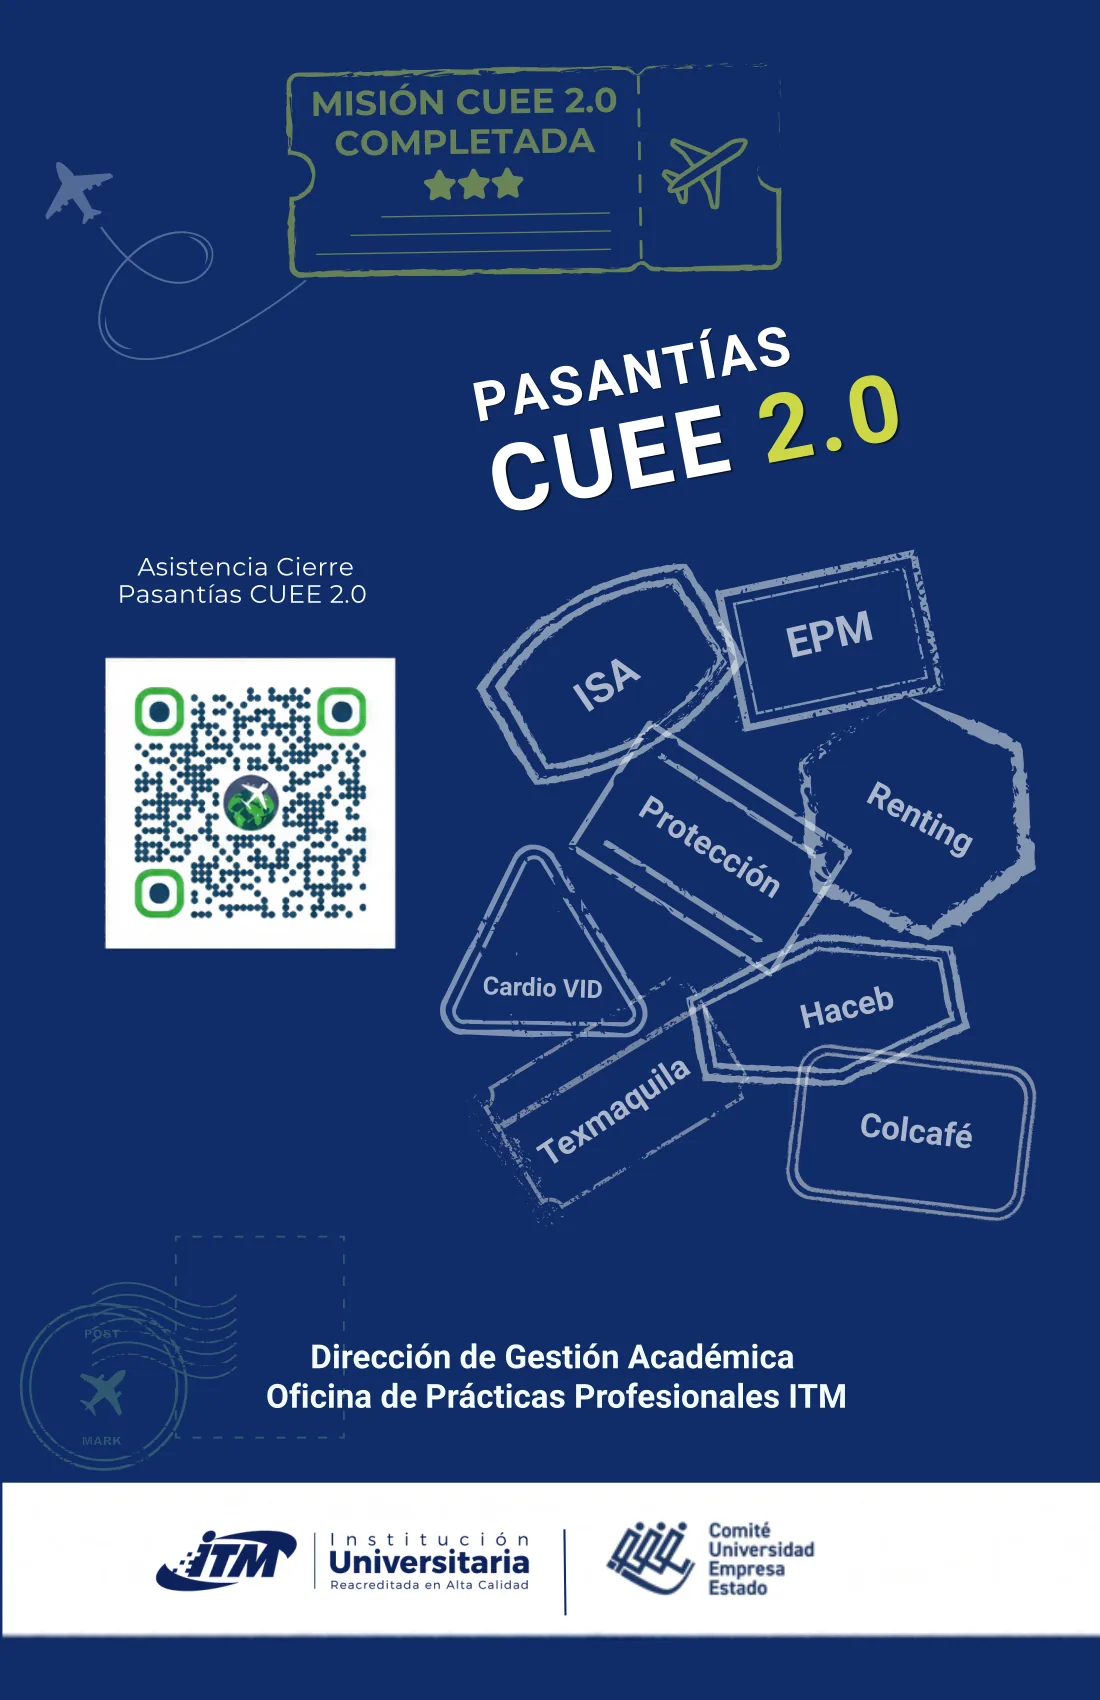
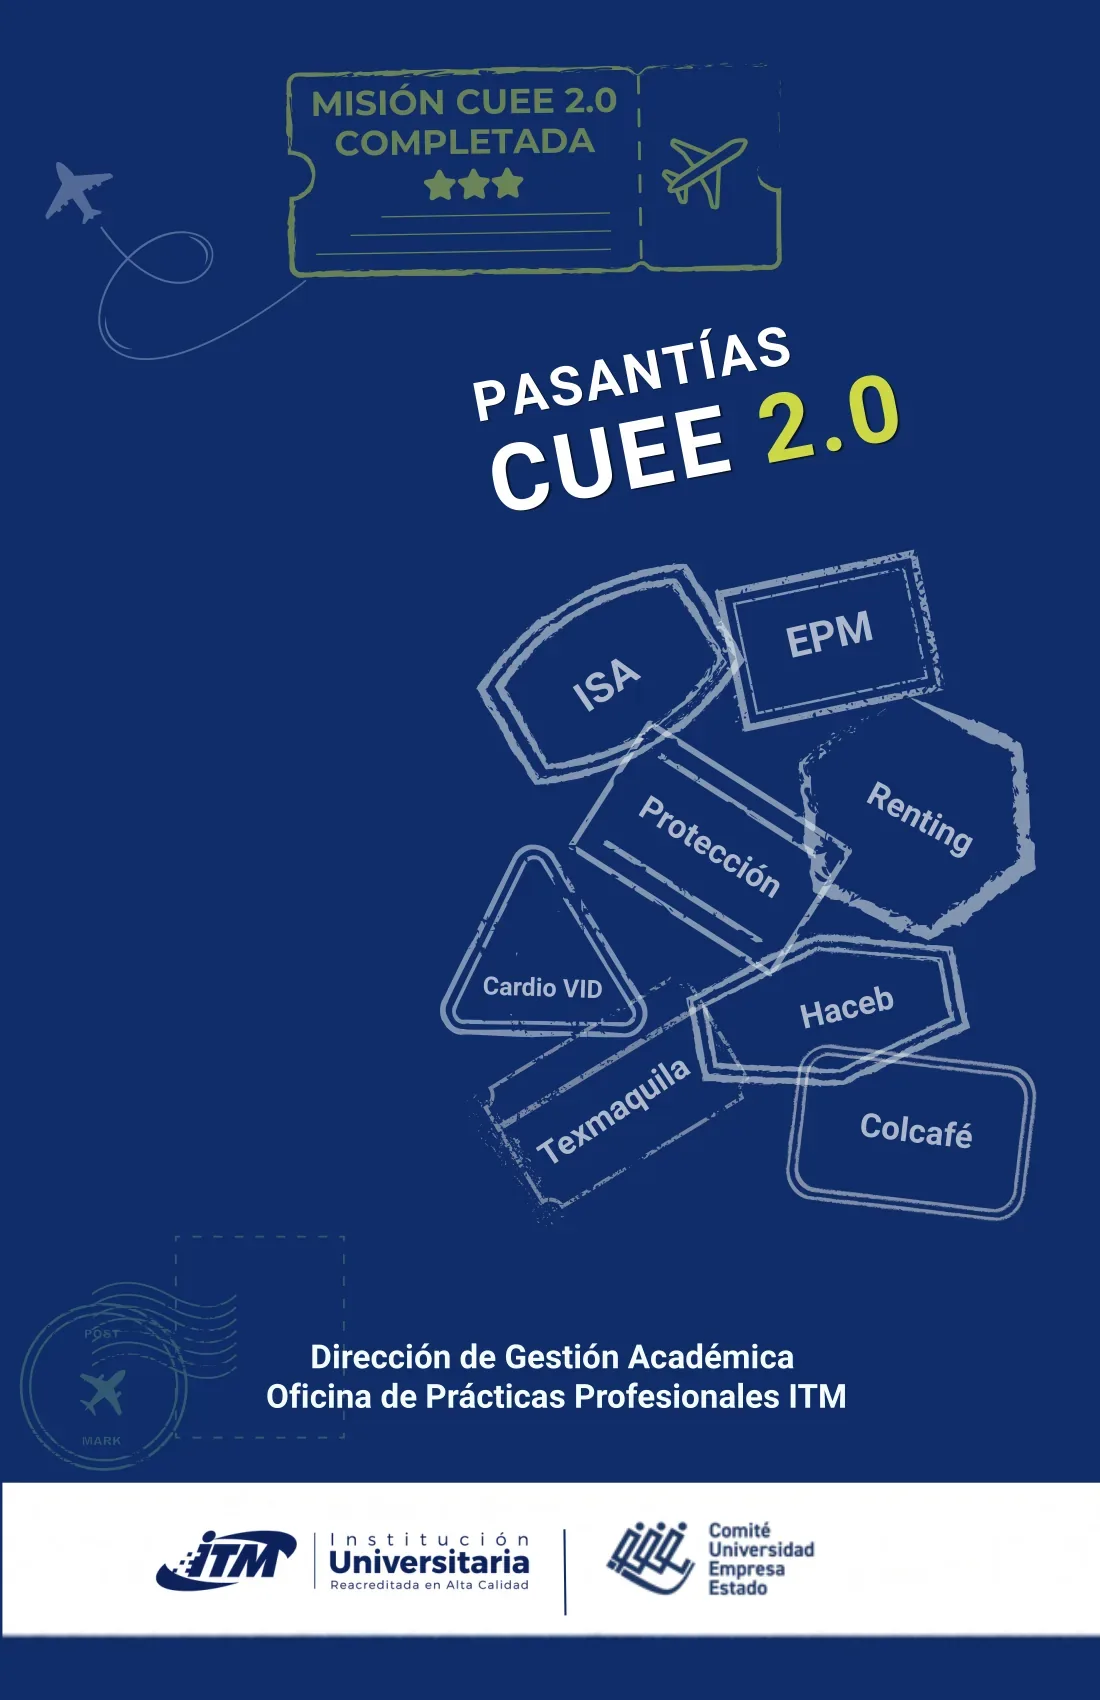
feat: Constancia del mentor al tercer día, QR individuales en PDF y contraportada sin QR
- El mentor descarga su constancia al registrar el tercer día (sin sellos).
- generar-qrs: imprimir, PDF y PNG por tarjeta con su formato; PDF de todos.
- Se borra el QR de "Asistencia Cierre" de la contraportada.

Changed region(s): [[0.0927, 0.3118, 0.3709, 0.5612]]

diff --git a/tools/generar-qrs.html b/tools/generar-qrs.html
@@ -11,6 +11,8 @@
   <link href="https://fonts.googleapis.com/css2?family=Montserrat:wght@400;600;700;800&display=swap" rel="stylesheet">
   <link rel="stylesheet" href="../css/styles.css">
   <script src="https://cdnjs.cloudflare.com/ajax/libs/qrcodejs/1.0.0/qrcode.min.js" defer></script>
+  <script src="https://cdnjs.cloudflare.com/ajax/libs/html2canvas/1.4.1/html2canvas.min.js" defer></script>
+  <script src="https://cdnjs.cloudflare.com/ajax/libs/jspdf/2.5.1/jspdf.umd.min.js" defer></script>
   <style>
     .contenedor { max-width: 1100px; margin: 0 auto; padding: 0 16px 40px; }
     .intro { background: var(--papel); color: var(--texto); border-radius: 18px; padding: 18px 20px; margin-bottom: 18px; font-size: 14px; }
@@ -29,8 +31,13 @@
     .titulo-seccion { font-size: 16px; margin: 24px 0 12px; }
     .dia-marca { display: inline-block; background: var(--azul); color: #fff; font-weight: 800; border-radius: 999px; padding: 8px 18px; margin: 14px 0 8px; }
     .dia-marca b { color: var(--lima); }
+    .barra .acciones { display: flex; gap: 8px; flex-wrap: wrap; }
     @media print {
       .titulo-seccion { display: none; }
+      /* Imprimir una sola tarjeta: ocupa la hoja. */
+      body.imprimir-una .tarjeta-qr:not(.imprimir-esta) { display: none; }
+      body.imprimir-una .rejilla { display: block; }
+      body.imprimir-una .tarjeta-qr.imprimir-esta { max-width: 150mm; margin: 15mm auto 0; padding: 12mm 10mm; zoom: 1.35; }
       .tarjeta-qr { page-break-after: auto; }
       body { background: #fff; }
       .barra, .intro, .botones { display: none !important; }
@@ -42,7 +49,10 @@
 <body>
   <header class="barra contenedor">
     <a class="marca" href="../admin.html"><small>QR DE LOS STANDS</small><strong>CUEE <span>2.0</span></strong></a>
-    <button class="btn btn-primario" id="imprimir" type="button">Imprimir</button>
+    <div class="acciones">
+      <button class="btn btn-claro" id="pdf-todos" type="button">PDF de todos</button>
+      <button class="btn btn-primario" id="imprimir" type="button">Imprimir todos</button>
+    </div>
   </header>
 
   <main class="contenedor">
@@ -162,18 +172,75 @@
         <p class="instruccion">${e.instruccion || 'Escanea para registrar tu asistencia'}</p>
         <p class="url">${url}</p>
         <div class="botones">
-          <button class="btn btn-claro" data-accion="descargar" type="button">Descargar PNG</button>
+          <button class="btn btn-claro" data-accion="imprimir" type="button">Imprimir</button>
+          <button class="btn btn-claro" data-accion="pdf" type="button">PDF</button>
+          <button class="btn btn-claro" data-accion="descargar" type="button">PNG</button>
           <button class="btn btn-claro" data-accion="rotar" type="button">Rotar token</button>
         </div>`;
       new QRCode(card.querySelector('.qr'), { text: url, width: 440, height: 440, correctLevel: QRCode.CorrectLevel.M });
       card.querySelector('[data-accion="rotar"]').onclick = () => e.rotar().catch((err) => alert(err.message));
-      card.querySelector('[data-accion="descargar"]').onclick = () => {
-        const canvas = card.querySelector('.qr canvas');
+      card.dataset.archivo = e.archivo;
+      card.querySelector('[data-accion="imprimir"]').onclick = () => imprimirUna(card);
+      card.querySelector('[data-accion="pdf"]').onclick = () => descargarPDF([card], `${e.archivo}.pdf`).catch(falloPDF);
+      card.querySelector('[data-accion="descargar"]').onclick = async () => {
         const a = document.createElement('a');
-        a.href = canvas.toDataURL('image/png');
+        a.href = (await capturar(card)).toDataURL('image/png');
         a.download = `${e.archivo}.png`;
         a.click();
       };
+    }
+
+    // ---------- Imprimir y descargar con el mismo formato de la tarjeta ----------
+    function imprimirUna(card) {
+      document.body.classList.add('imprimir-una');
+      card.classList.add('imprimir-esta');
+      addEventListener('afterprint', () => {
+        document.body.classList.remove('imprimir-una');
+        card.classList.remove('imprimir-esta');
+      }, { once: true });
+      print();
+    }
+
+    // La tarjeta tal como se ve (sello, nombre, QR y explicación), sin botones.
+    async function capturar(card) {
+      if (!window.html2canvas) throw new Error('No cargó el generador de imágenes; recarga la página.');
+      const escala = 3;
+      const lienzo = await html2canvas(card, {
+        scale: escala,
+        backgroundColor: '#ffffff',
+        ignoreElements: (el) => el.classList?.contains('botones'),
+        onclone: (doc) => { doc.getElementById(card.id).style.boxShadow = 'none'; },
+      });
+      // html2canvas deja vacío el recuadro del QR: se dibuja encima desde su canvas.
+      const qr = card.querySelector('.qr img') || card.querySelector('.qr canvas');
+      const [c, q] = [card.getBoundingClientRect(), qr.getBoundingClientRect()];
+      const ctx = lienzo.getContext('2d');
+      ctx.setTransform(1, 0, 0, 1, 0, 0); // html2canvas deja aplicada su escala
+      ctx.imageSmoothingEnabled = false;
+      ctx.drawImage(card.querySelector('.qr canvas'), (q.left - c.left) * escala, (q.top - c.top) * escala, q.width * escala, q.height * escala);
+      return lienzo;
+    }
+
+    // Una tarjeta por hoja carta, centrada, de 140 mm de ancho.
+    async function descargarPDF(cards, archivo) {
+      if (!window.jspdf) throw new Error('No cargó el generador de PDF; recarga la página.');
+      const pdf = new window.jspdf.jsPDF({ unit: 'mm', format: 'letter' });
+      const [anchoHoja, altoHoja] = [pdf.internal.pageSize.getWidth(), pdf.internal.pageSize.getHeight()];
+      for (const [i, card] of cards.entries()) {
+        const lienzo = await capturar(card);
+        let ancho = 140;
+        let alto = (lienzo.height / lienzo.width) * ancho;
+        if (alto > altoHoja - 30) [alto, ancho] = [altoHoja - 30, ((altoHoja - 30) * lienzo.width) / lienzo.height];
+        if (i) pdf.addPage();
+        pdf.addImage(lienzo.toDataURL('image/jpeg', 0.95), 'JPEG', (anchoHoja - ancho) / 2, (altoHoja - alto) / 2, ancho, alto);
+      }
+      pdf.setProperties({ title: 'Códigos QR · Pasantías CUEE 2.0' });
+      pdf.save(archivo);
+    }
+
+    function falloPDF(err) {
+      console.error(err);
+      alert(err.message || 'No se pudo generar el PDF.');
     }
 
     async function iniciar() {
@@ -209,6 +276,16 @@
       }
     };
     $('#imprimir').onclick = () => print();
+    $('#pdf-todos').onclick = async () => {
+      const cards = [...document.querySelectorAll('.tarjeta-qr')];
+      if (!cards.length) return alert('Primero inicia sesión para cargar los QR.');
+      const boton = $('#pdf-todos');
+      boton.disabled = true;
+      boton.textContent = 'Generando…';
+      await descargarPDF(cards, 'QR CUEE 2.0 - asistencia y stands.pdf').catch(falloPDF);
+      boton.disabled = false;
+      boton.textContent = 'PDF de todos';
+    };
     $('#modo-fecha').innerHTML = FECHA_ASISTENCIA_OBLIGATORIA
       ? `Cada QR solo sirve en su fecha (del ${fechaLarga(DIAS[0].fecha)} al ${fechaLarga(DIAS[DIAS.length - 1].fecha)}, hora de Colombia).`
       : SANDBOX

diff --git a/js/pasaporte-ui.js b/js/pasaporte-ui.js
@@ -1,6 +1,6 @@
 import { usuarioActual, leerPerfil, actualizarPerfil, guardarNota, foto, firma, sincronizarImagenes, faltanDatos, cerrarSesion, esAnonimo, crearContrasena, ErrorCuenta } from './auth.js';
 import { misSellos, misAsistencias } from './sellos.js';
-import { EMPRESAS, TOTAL, PAGINAS, PAGINA_DATOS, PAGINA_MISION, DIAS, empresaPorId, diaPorId, mentorPorId, rutaSello, fechaLarga, etiquetaDestino, tipoDe, lineaPrograma } from './empresas.js';
+import { EMPRESAS, TOTAL, PAGINAS, PAGINA_DATOS, PAGINA_MISION, DIAS, empresaPorId, diaPorId, mentorPorId, rutaSello, fechaLarga, etiquetaDestino, tipoDe, lineaPrograma, constanciaLista } from './empresas.js';
 import { conectarFacultadPrograma, llenarEmpresas, llenarVinculos, camposPorTipo, empresaFinal } from './formularios.js';
 import { fiesta } from './fiesta.js';
 import { pasaporteVisible, PASAPORTE_VISIBLE_DESDE } from './evento.js';
@@ -212,7 +212,7 @@ const selloCompleto = () => EMPRESAS.every((e) => estado.sellos[e.id]);
 const asistenciaCompleta = () => DIAS.every((d) => estado.asistencias[d.id]);
 
 function pintarConstancia() {
-  const lista = Boolean(tipoDe(estado.perfil).constancia) && selloCompleto() && asistenciaCompleta();
+  const lista = constanciaLista(estado.perfil, estado.sellos, estado.asistencias);
   $('#btn-constancia').classList.toggle('oculto', !lista);
   $('#btn-constancia').classList.toggle('btn-primario', lista);
   $('#btn-constancia').classList.toggle('btn-secundario', !lista);
@@ -536,7 +536,7 @@ async function iniciar() {
     setTimeout(() => anillo.classList.remove('latido'), 1600);
     if (repetido) {
       aviso(`Tu asistencia del ${nuevoDia.nombre} ya estaba registrada.`);
-    } else if (tipoDe(estado.perfil).constancia && asistenciaCompleta() && selloCompleto()) {
+    } else if (constanciaLista(estado.perfil, estado.sellos, estado.asistencias)) {
       fiesta();
       aviso('¡Completaste el CUEE 2.0! 🎉 Ya puedes descargar tu constancia.', 'exito');
     } else {

diff --git a/js/empresas.js b/js/empresas.js
@@ -31,18 +31,26 @@ export const PAGINA_DATOS = 1;
 export const PAGINA_MISION = 11;
 
 // Quién hace la dinámica del pasaporte. Estudiantes y mentores registran la
-// asistencia de los 3 días y reciben constancia; los visitantes de las
-// empresas y la comunidad ITM llenan el pasaporte y la asistencia es opcional.
+// asistencia de los 3 días y reciben constancia (el estudiante, además, con
+// todos los sellos; el mentor, al registrar el tercer día); los visitantes de
+// las empresas y la comunidad ITM llenan el pasaporte y la asistencia es opcional.
 // Los perfiles sin `tipo` (registrados antes) son estudiantes.
 export const TIPOS = [
-  { id: 'estudiante', nombre: 'Estudiante en pasantía', rotulo: 'Estudiante', asistencia: true, constancia: 'estudiante' },
-  { id: 'mentor', nombre: 'Mentor', rotulo: 'Mentor CUEE 2.0', asistencia: true, constancia: 'mentor' },
+  { id: 'estudiante', nombre: 'Estudiante en pasantía', rotulo: 'Estudiante', asistencia: true, constancia: 'estudiante', constanciaConSellos: true },
+  { id: 'mentor', nombre: 'Mentor', rotulo: 'Mentor CUEE 2.0', asistencia: true, constancia: 'mentor', constanciaConSellos: false },
   { id: 'visitante', nombre: 'Visitante de empresa', rotulo: 'Visitante empresarial', asistencia: false, constancia: null },
   { id: 'comunidad', nombre: 'Comunidad ITM', rotulo: 'Comunidad ITM', asistencia: false, constancia: null },
 ];
 
 export function tipoDe(perfil) {
   return TIPOS.find((t) => t.id === perfil?.tipo) || TIPOS[0];
+}
+
+// ¿Ya puede descargar su constancia desde el pasaporte?
+export function constanciaLista(perfil, sellos, asistencias) {
+  const t = tipoDe(perfil);
+  if (!t.constancia || !DIAS.every((d) => asistencias[d.id])) return false;
+  return !t.constanciaConSellos || EMPRESAS.every((e) => sellos[e.id]);
 }
 
 // Vínculo con el ITM de quien se registra como comunidad ITM.

diff --git a/js/constancia.js b/js/constancia.js
@@ -1,6 +1,6 @@
 import { usuarioActual, leerPerfil, faltanDatos } from './auth.js';
 import { misSellos, misAsistencias } from './sellos.js';
-import { EMPRESAS, DIAS, fechaLarga, etiquetaDestino, tipoDe } from './empresas.js';
+import { EMPRESAS, DIAS, fechaLarga, etiquetaDestino, tipoDe, constanciaLista } from './empresas.js';
 import { dibujarConstancia, pdfDeLienzos, nombreArchivo } from './constancia-dibujo.js';
 
 const $ = (sel) => document.querySelector(sel);
@@ -21,7 +21,8 @@ function descargar(url, archivo) {
 function mostrarPendiente(sellos, asistencias, perfil) {
   const filas = [
     ...DIAS.map((d) => [`Asistencia ${d.nombre} (${fechaLarga(d.fecha)})`, Boolean(asistencias[d.id])]),
-    ...EMPRESAS.map((e) => [`${etiquetaDestino(e)} · ${e.nombre}`, Boolean(sellos[e.id])]),
+    // Al mentor le basta la asistencia de los 3 días.
+    ...(tipoDe(perfil).constanciaConSellos ? EMPRESAS.map((e) => [`${etiquetaDestino(e)} · ${e.nombre}`, Boolean(sellos[e.id])]) : []),
   ];
   if (faltanDatos(perfil)) filas.unshift([tipoDe(perfil).id === 'estudiante' ? 'Cédula y facultad en tus datos' : 'Cédula en tus datos', false]);
   const faltan = filas.filter(([, ok]) => !ok).length;
@@ -41,8 +42,7 @@ async function iniciar() {
   if (!plantilla) return location.replace('pasaporte.html');
   $('#cargando').classList.add('oculto');
 
-  const completo = EMPRESAS.every((e) => sellos[e.id]) && DIAS.every((d) => asistencias[d.id]);
-  if (!completo || faltanDatos(perfil)) return mostrarPendiente(sellos, asistencias, perfil);
+  if (!constanciaLista(perfil, sellos, asistencias) || faltanDatos(perfil)) return mostrarPendiente(sellos, asistencias, perfil);
 
   // La de mentor no lleva cédula.
   const lienzo = await dibujarConstancia(plantilla, { nombre: `${perfil.nombres} ${perfil.apellidos}`, cedula: perfil.cedula });

diff --git a/tools/extraer_assets.py b/tools/extraer_assets.py
@@ -95,6 +95,16 @@ def corregir_destino_8(img):
     return out
 
 
+def quitar_qr_contraportada(img):
+    """La contraportada del boceto trae un QR de "Asistencia Cierre"; la
+    asistencia se toma con los QR de cada día, así que se borra (texto y QR)
+    con el azul plano del fondo. Coordenadas para la hoja a 200 dpi (1100x1700)."""
+    out = img.copy()
+    fondo = out.getpixel((60, 520))
+    ImageDraw.Draw(out).rectangle((95, 545, 410, 958), fill=fondo)
+    return out
+
+
 IMG_VIAJEMOS = RAIZ / "imagenes_referencia" / "WhatsApp Image 2026-10-09 at 11.09.46 PM.jpeg"
 
 
@@ -188,6 +198,8 @@ def main(pdf):
             hoja = img.crop(caja)
             if nombre == "09-destino-8":
                 hoja = corregir_destino_8(hoja)
+            if nombre == "11-contraportada":
+                hoja = quitar_qr_contraportada(hoja)
             hoja.save(PAG / f"{nombre}.webp", quality=82, method=6)
             print("página", nombre)
         for pagina, nombre in SELLOS.items():

diff --git a/README.md b/README.md
@@ -15,7 +15,7 @@ Pasaporte digital de las Pasantías CUEE 2.0 (ITM). Hay un QR de asistencia por 
 | `scanner.html` | Estudiante | Escáner de QR de asistencia (`?d=dia1`, registro el primer día) y de stands (`?e=`). También funciona si el QR se abre con la cámara normal del celular. |
 | `constancia.html` | Estudiante | Con los 3 días y los 8 sellos, genera la constancia de abordaje y participación (plantilla de Canva, página 1) con su nombre y cédula, y la descarga en PDF o imagen. |
 | `admin.html` | Organizadores | Entrada con correo y contraseña (o Google). Tabla con asistencia por día y sellos, ficha con foto y firma, exportación CSV, sorteo entre los completos (3 días + todos los sellos), constancia manual para estudiantes con 2 días o más, y constancias de mentores en PDF. |
-| `tools/generar-qrs.html` | Organizadores | Crea los tokens secretos y la ventana de cada día, y muestra los QR para imprimir: 3 de asistencia (uno por día) y 9 de stands. Permite rotarlos. |
+| `tools/generar-qrs.html` | Organizadores | Crea los tokens secretos y la ventana de cada día, y muestra los QR: 3 de asistencia (uno por día) y 9 de stands. Cada tarjeta (nombre, sello y explicación) se imprime o descarga sola en PDF o PNG; también todas en un PDF (una por hoja carta) o impresas juntas. Permite rotarlos. |
 
 En la hoja de datos el estudiante toca la foto para tomarse una, la firma para firmar con el dedo y los campos para corregirlos. En cada destino puede escribir "Lo más importante que descubrí" sobre las líneas del boceto.
 
@@ -61,7 +61,7 @@ La cámara del escáner necesita HTTPS (o `localhost`).
 - `estudiantes/{uid}`: cédula, nombres, apellidos, programa, facultad, empresa (opcional), contacto (correo), notas por destino, fecha de registro. A quien se registró antes de pedir cédula y facultad, el pasaporte se las pide al abrirlo.
 - `asistencias/{uid}_{dia}`: uid, dia, token, ts. `dias/{dia}`: token del QR, inicio y fin (solo organizadores); las reglas exigen el token del día y que la hora del servidor esté en esa ventana.
 - `estudiantes/{uid}.mentor`: mentor acompañante elegido en el registro.
-- `estudiantes/{uid}.tipo`: cómo participa (`estudiante`, `mentor`, `visitante` de empresa o `comunidad` ITM; sin tipo = estudiante). Todos llenan el pasaporte. Estudiantes y mentores registran los 3 días y reciben constancia (el mentor, la de mentor); visitantes y comunidad ITM no necesitan asistencia ni reciben constancia. Facultad, programa y mentor solo se piden a estudiantes; la empresa es obligatoria para visitantes; `vinculo` (docente, administrativo…) solo para comunidad ITM. Tipos y textos en `TIPOS` de `js/empresas.js`.
+- `estudiantes/{uid}.tipo`: cómo participa (`estudiante`, `mentor`, `visitante` de empresa o `comunidad` ITM; sin tipo = estudiante). Todos llenan el pasaporte. Estudiantes y mentores registran los 3 días y reciben constancia: el estudiante con los 3 días y todos los sellos; el mentor (plantilla de mentor) al registrar el tercer día, sin necesitar sellos; visitantes y comunidad ITM no necesitan asistencia ni reciben constancia. Facultad, programa y mentor solo se piden a estudiantes; la empresa es obligatoria para visitantes; `vinculo` (docente, administrativo…) solo para comunidad ITM. Tipos y textos en `TIPOS` de `js/empresas.js`.
 - `sellos/{uid}_{empresaId}`: uid, empresaId, token, ts. El ID compuesto impide sellos repetidos.
 - `empresas/{empresaId}`: nombre, orden, token (solo organizadores).
 - `fotos/{uid}`: foto (JPEG 360×480) y firma (PNG 600×200) como data URL. Va aparte del perfil para que la tabla de `admin.html` no descargue imágenes; se ve con el botón *Ver* de cada estudiante. Al abrir el pasaporte se sincronizan: si el estudiante cambia de celular se recuperan, y si estaban solo en el celular se suben.
@@ -124,7 +124,7 @@ Si cambia el diseño en Canva, exporta el PDF con el mismo orden de páginas y e
 python3 tools/extraer_assets.py "imagenes_referencia/Pasaporte CUEE 2.0.pdf"
 ```
 
-Requiere `pdftocairo` (poppler), Pillow y numpy. También genera la hoja del stand "Viajemos juntos" (`01b-viajemos.webp`, a partir de la imagen de WhatsApp de `imagenes_referencia/`) y su sello (`assets/sellos/viajemos.webp`, dibujado con Montserrat), y las plantillas de constancia de estudiante y mentor (a la de mentor le borra la línea de cédula). Si cambian las líneas de "Lo más importante que descubrí", ajusta `linea` en `js/empresas.js`. El script también corrige el "DESTINO 6" de la hoja de Colcafé a "DESTINO 8" (función `corregir_destino_8`, con Montserrat de `tools/fuentes/`, licencia OFL); si el PDF ya viene corregido, quita esa llamada.
+Requiere `pdftocairo` (poppler), Pillow y numpy. También genera la hoja del stand "Viajemos juntos" (`01b-viajemos.webp`, a partir de la imagen de WhatsApp de `imagenes_referencia/`) y su sello (`assets/sellos/viajemos.webp`, dibujado con Montserrat), y las plantillas de constancia de estudiante y mentor (a la de mentor le borra la línea de cédula). Si cambian las líneas de "Lo más importante que descubrí", ajusta `linea` en `js/empresas.js`. Borra el QR de "Asistencia Cierre" de la contraportada (`quitar_qr_contraportada`), porque la asistencia va con los QR de cada día. El script también corrige el "DESTINO 6" de la hoja de Colcafé a "DESTINO 8" (función `corregir_destino_8`, con Montserrat de `tools/fuentes/`, licencia OFL); si el PDF ya viene corregido, quita esa llamada.
 
 ## Créditos
 
